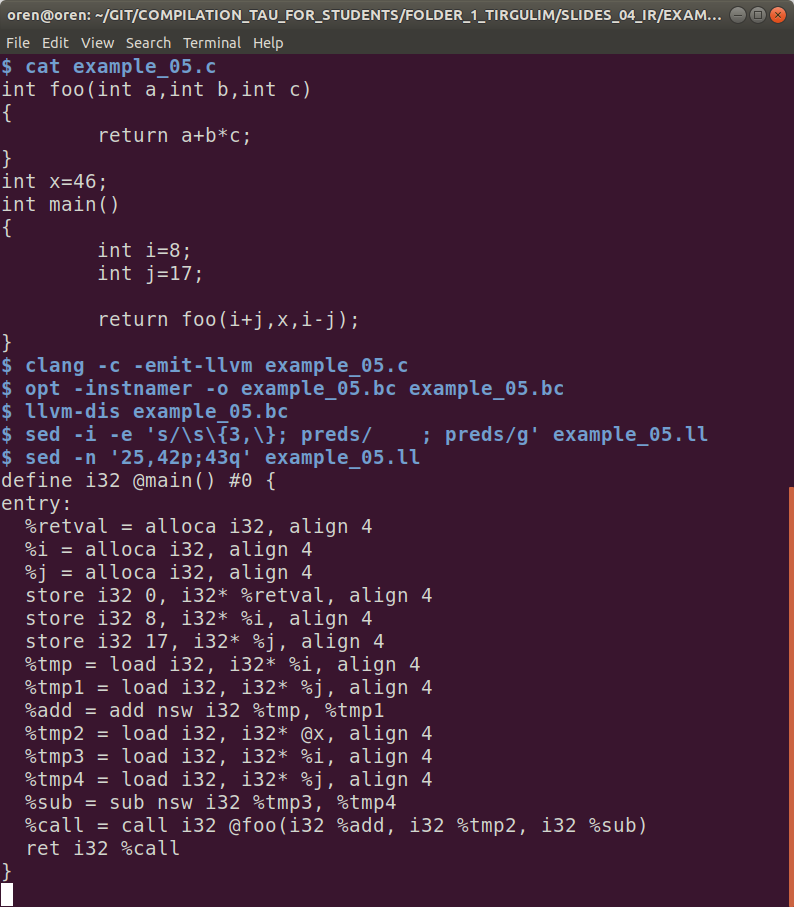
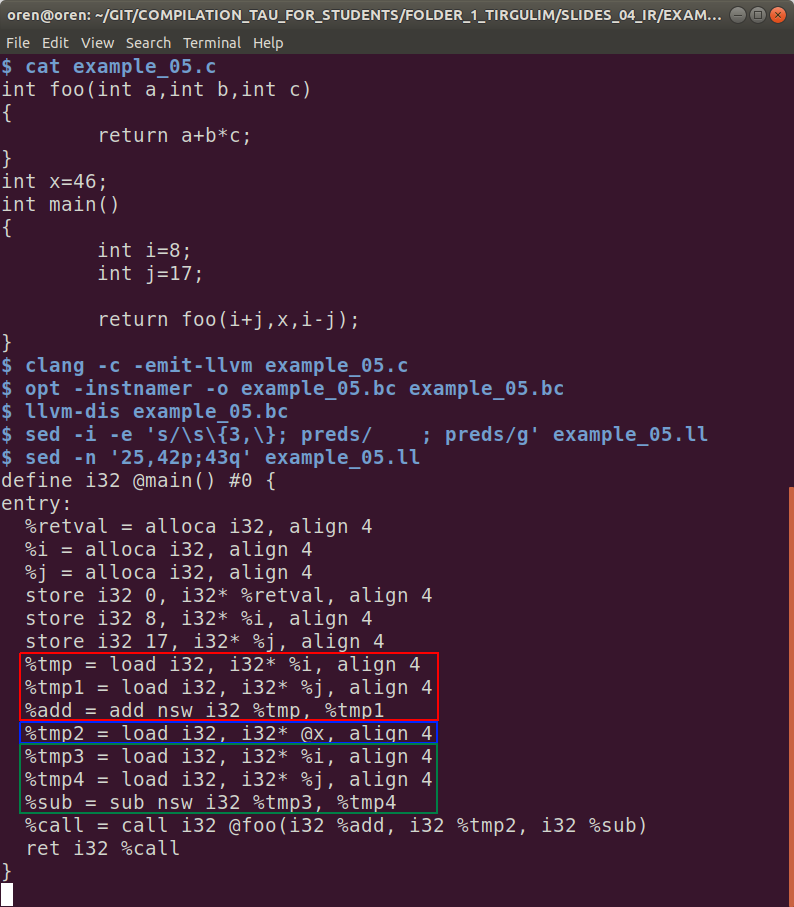
slides

Changed region(s): [[0.0302, 0.7718, 0.5743, 0.8335]]

diff --git a/FOLDER_1_TIRGULIM/SLIDES_04_IR/LATEX/slide_09_LLVM_IR_function_call.tex b/FOLDER_1_TIRGULIM/SLIDES_04_IR/LATEX/slide_09_LLVM_IR_function_call.tex
@@ -1,7 +1,7 @@
 \section{IR of Industrial Compilers}
 \frame{
 \frametitle{IR of Industrial Compilers :: LLVM Bitcode \\
-How to generate IR for while statements?
+How to generate IR for function calls?
 }
 \begin{columns}
 \begin{column}{0.60\textwidth}
@@ -12,26 +12,24 @@ How to generate IR for while statements?
 \begin{column}{0.6\textwidth}
 \begin{itemize}
 \item
-three labels are created:
+3 parameters are sent for foo:
 \begin{itemize}
-\item while.cond ({\color{red} red})
-\item while.body ({\color{blue} blue})
-\item while.end ({\color{green} green})
+\item add = i $+$ j ({\color{red} red})
+\item tmp2 = x      ({\color{blue} blue})
+\item sub = i $-$ j ({\color{green} green})
 \end{itemize}
 \item
-how to make sure \\
-these labels are unique?
+does evaluation order matter?
 \item
-one \textit{conditional} branch is issued
-from \textit{while.cond} to either \textit{while.body}
-or \textit{while.end}
+how should we handle \\
+the return value?
 \item
-the other (unconditional) branch \\
-is from \textit{while.body} to \textit{while.cond}
+which calling convention \\
+is implied here?
 \item
-What would be the only     \\
-difference when generating \\
-IR for if statements?
+which calling convention \\
+should we adopt          \\
+in \textit{our} project?
 \end{itemize}
 \end{column}
 \end{columns}

diff --git a/FOLDER_1_TIRGULIM/SLIDES_04_IR/LATEX/slide_10_LLVM_IR_method___call.tex b/FOLDER_1_TIRGULIM/SLIDES_04_IR/LATEX/slide_10_LLVM_IR_method___call.tex
@@ -1,7 +1,7 @@
 \section{IR of Industrial Compilers}
 \frame{
 \frametitle{IR of Industrial Compilers :: LLVM Bitcode \\
-How to generate IR for while statements?
+How to generate IR for method calls?
 }
 \begin{columns}
 \begin{column}{0.80\textwidth}
